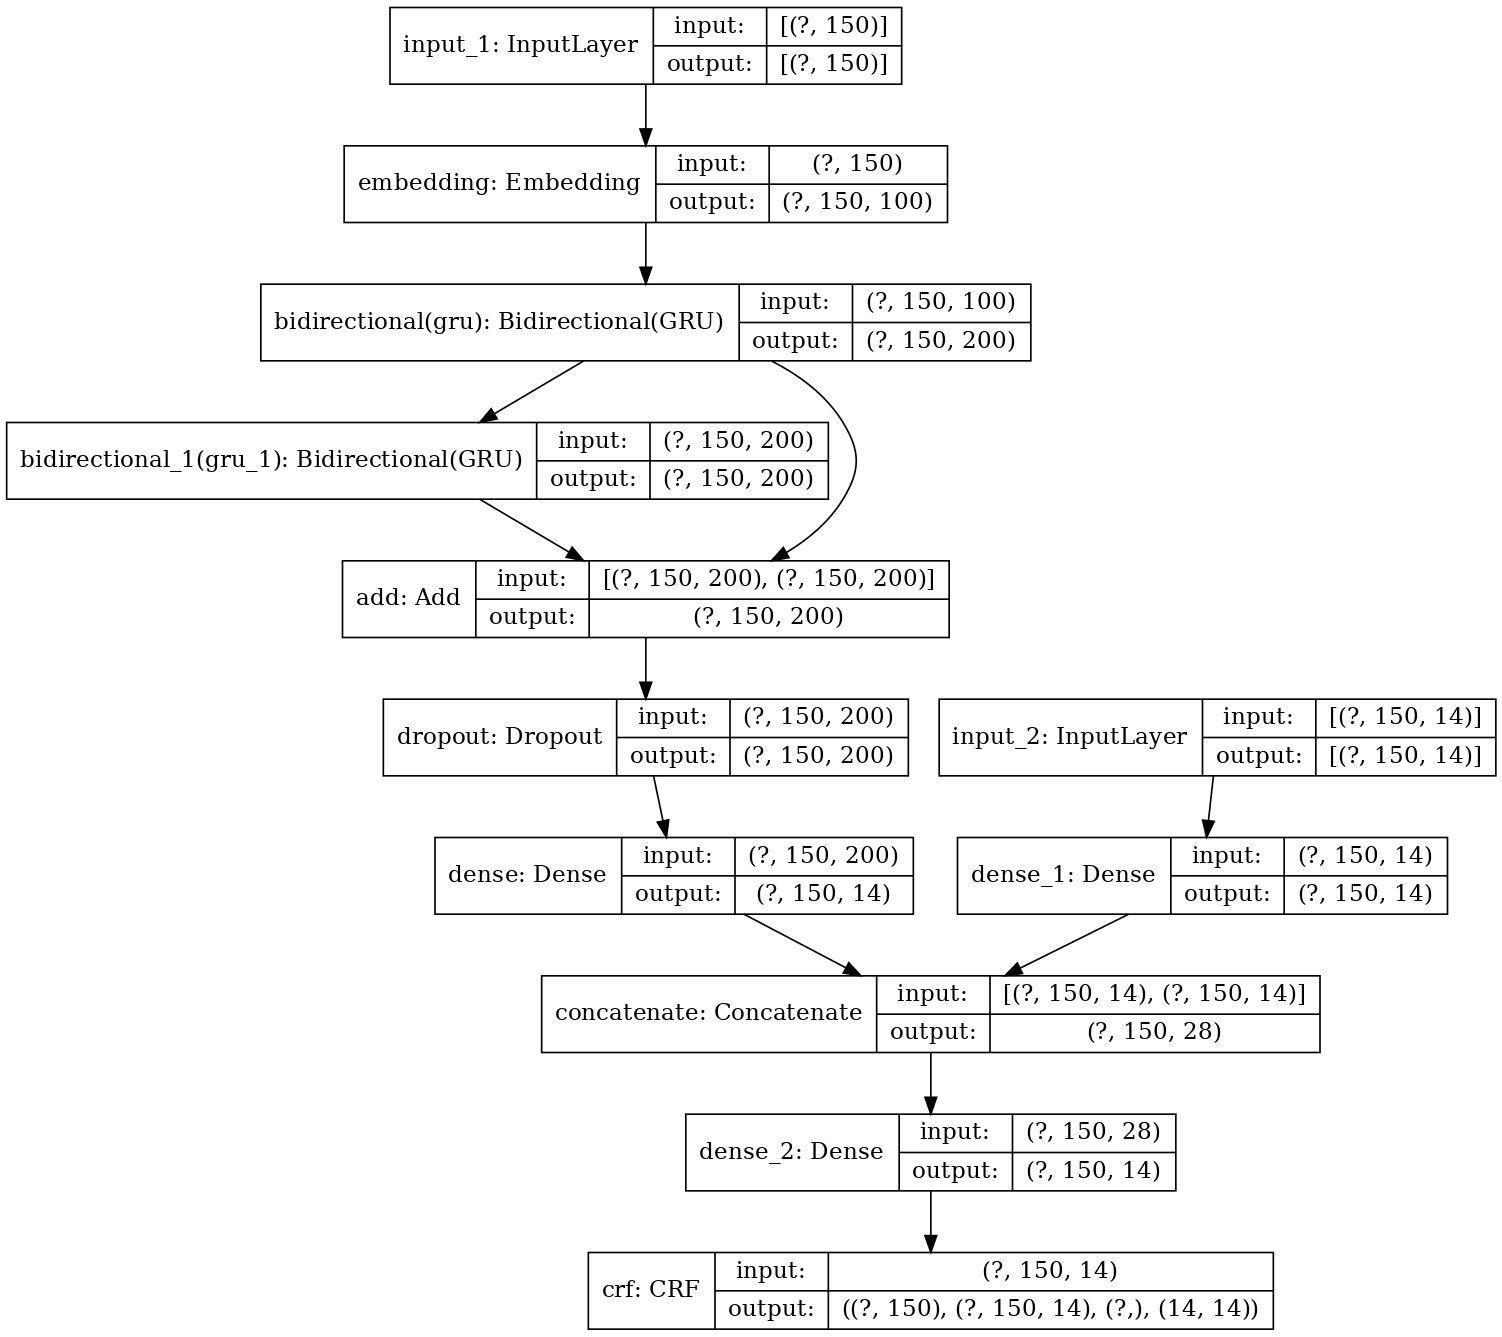
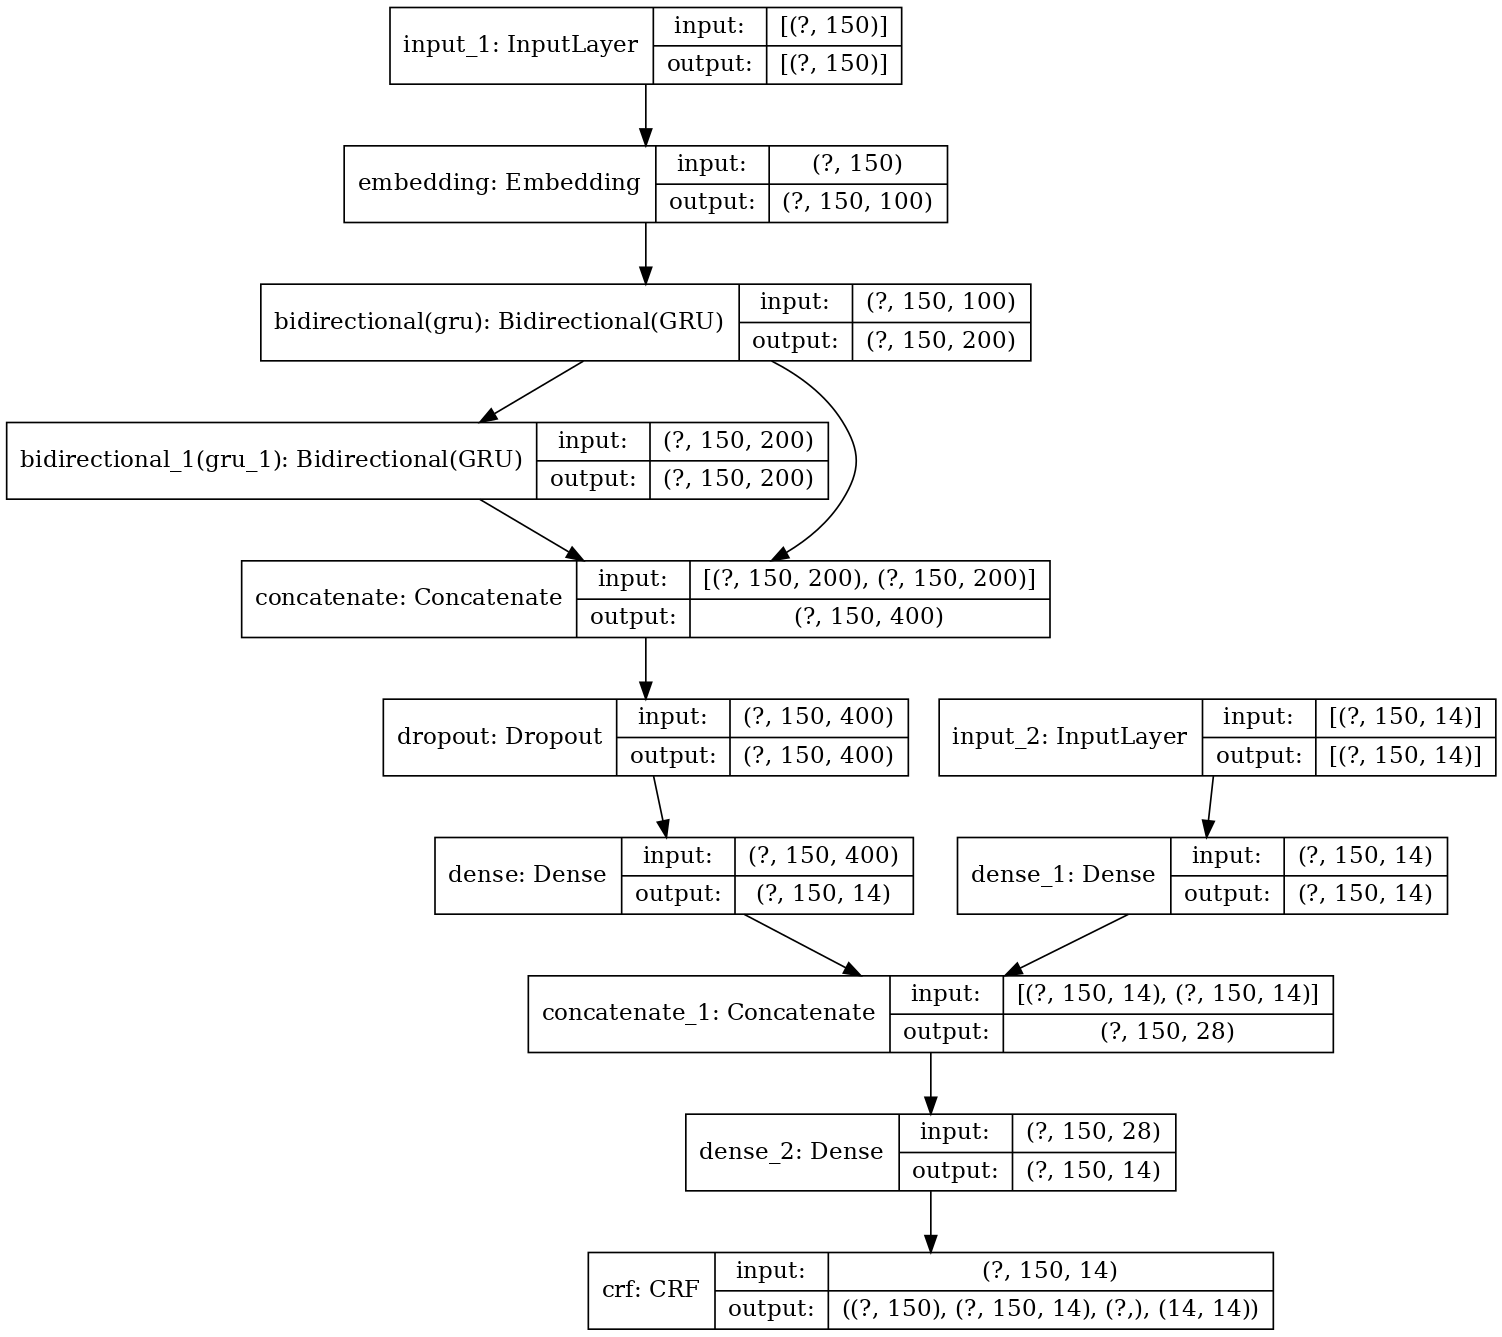
LuterGS : 모델 2 기존 베이스라인에서 Bidirectional을 3중으로 쌓음 + Residual Connection 구조로 변경 후, Okt로 품사 태깅한 것을 추가로 입력을 줘서 처리함.

Changed region(s): [[0.3369, 0.736, 0.8881, 0.7973], [0.1531, 0.4293, 0.7044, 0.4907]]

diff --git a/LuterGS/main.py b/LuterGS/main.py
@@ -7,18 +7,10 @@
 import os
 from tqdm import tqdm
 import numpy as np
-
-import tensorflow.keras.layers as layers
-import tensorflow.keras.optimizers as optimizers
-import tensorflow.keras.losses as losses
-import tensorflow.keras.metrics as metrics
-import tensorflow.keras.utils as utils
-from tensorflow.keras import Model
-from tf2crf import CRF, ModelWithCRFLoss
+import LuterGS.model as models
 from seqeval.metrics import classification_report
-
-
 from LuterGS.Preprocess import load_vocab, convert_data2feature, convert_data2tagfeature
+
 
 PATH = os.path.dirname(os.path.abspath(__file__)) + "/"
 MAX_LENGTH = 150
@@ -56,44 +48,26 @@ class Dataset:
 
 class Network:
 
-    def __init__(self):
-        self.model = self.init_model()
+    def __init__(self, model_selection):
+        self.model = self.init_model(model_selection)
 
-    def init_model(self):
-        feature_input = layers.Input(shape=(MAX_LENGTH, ), dtype='int32')
-        f_x = layers.Embedding(input_dim=2160, output_dim=EMBEDDING_DIM, input_shape=(MAX_LENGTH, ), trainable=True, mask_zero=True)(feature_input)
-        f_x = layers.Bidirectional(layers.GRU(100, return_sequences=True))(f_x)
+    def init_model(self, model_selection):
+        """
+        :param model_selection: 모델 선택 번호
+            1. biGRU + Resnet + Okt 모델
+        :return: 완성된 텐서플로우 모델
+        """
+        if model_selection == 1:
+            return models.biGRU_ResNet_Okt(MAX_LENGTH, EMBEDDING_DIM, TAG_NUM)
+        elif model_selection == 2:
+            return models.network2(MAX_LENGTH, EMBEDDING_DIM, TAG_NUM)
 
-        f2_x = layers.Bidirectional(layers.GRU(units=100, return_sequences=True))(f_x)
-
-        f_x = layers.Add()([f_x, f2_x])
-
-        f_x = layers.Dropout(0.2)(f_x)
-        f_x = layers.Dense(TAG_NUM, activation='relu')(f_x)
-
-        tag_input = layers.Input(shape=(MAX_LENGTH, TAG_NUM), dtype='float32')
-        t_x = layers.Dense(units=TAG_NUM, activation='relu')(tag_input)
-
-        x = layers.Concatenate()([f_x, t_x])
-        x = layers.Dense(units=14, activation='relu')(x)
-        # x = layers.Reshape(target_shape=(1, 150, TAG_NUM * 2))(x)
-        # x = layers.Conv2D(filters=64, kernel_size=4, strides=1, padding='SAME', activation='relu', kernel_initializer='he_normal')(x)
-        # x = layers.Reshape(target_shape=(150, TAG_NUM))(x)
-
-        crf = CRF(dtype='float32')
-        x = crf(x)
-
-
-        base_model = Model(inputs=[feature_input, tag_input], outputs=x)
-        utils.plot_model(base_model, "biGRU+ResNet+Okt.png", True, True, 'TB', True, 120)
-
-        model = ModelWithCRFLoss(base_model)
-        model.compile(optimizer=optimizers.Adam(lr=0.0003))
-        return model
-
-    def train(self, x1, x2, y, save_name, epochs=20, batch_size=32):
+    def train(self, x1, x2, y, save_name, epochs=30, batch_size=20):
         self.model.fit(x=[x1, x2], y=y, epochs=epochs, batch_size=batch_size, verbose=1)
         self.model.save(filepath=save_name)
+
+    def load(self, location):
+        self.model.load_weights(location + "/variables")
 
     def evaluate(self, x1, x2, y, idx2tag):
         model_predicted = self.model.predict([x1, x2])
@@ -107,14 +81,18 @@ class Network:
 
 if __name__ == "__main__":
 
-    neural_net = Network()
+    neural_net = Network(2)
 
 
     data = Dataset()
     train_x1, train_x2, train_y = data.get_network_data("../baseline/ner_train.txt")
     test_x1, test_x2, test_y = data.get_network_data("../baseline/ner_dev.txt")
 
-    neural_net.train(train_x1, train_x2, train_y, "model2", 20)
+    neural_net.train(train_x1, train_x2, train_y, "network2", 30, 20)
+    # model1은 biGRU_ResNet_Okt에서 두개의 BiGRU를 합칠때 Add 사용
+    # model2는 Concatenate 사용
+    # network2는 models.network2 사용
+
     neural_net.evaluate(test_x1, test_x2, test_y, data.idx2tag)
 
 

diff --git a/LuterGS/model.py b/LuterGS/model.py
@@ -1,0 +1,73 @@
+import tensorflow.keras.layers as layers
+import tensorflow.keras.utils as utils
+import tensorflow.keras.optimizers as optimizers
+from tensorflow.keras import Model
+from tf2crf import CRF, ModelWithCRFLoss
+
+def biGRU_ResNet_Okt(MAX_LENGTH, EMBEDDING_DIM, TAG_NUM):
+
+
+    feature_input = layers.Input(shape=(MAX_LENGTH, ), dtype='int32')
+    f_x = layers.Embedding(input_dim=2160, output_dim=EMBEDDING_DIM, input_shape=(MAX_LENGTH, ), trainable=True, mask_zero=True)(feature_input)
+    f_x = layers.Bidirectional(layers.GRU(100, return_sequences=True))(f_x)
+    f2_x = layers.Bidirectional(layers.GRU(units=100, return_sequences=True))(f_x)
+
+    f_x = layers.Concatenate()([f_x, f2_x])
+    f_x = layers.Dropout(0.2)(f_x)
+    f_x = layers.Dense(TAG_NUM, activation='relu')(f_x)
+
+    tag_input = layers.Input(shape=(MAX_LENGTH, TAG_NUM), dtype='float32')
+    t_x = layers.Dense(units=TAG_NUM, activation='relu')(tag_input)
+
+    x = layers.Concatenate()([f_x, t_x])
+    x = layers.Dense(units=14, activation='relu')(x)
+
+    crf = CRF(dtype='float32')
+    x = crf(x)
+
+    base_model = Model(inputs=[feature_input, tag_input], outputs=x)
+    utils.plot_model(base_model, "biGRU+ResNet+Okt.png", True, True, 'TB', True, 120)
+
+    model = ModelWithCRFLoss(base_model)
+    model.compile(optimizer=optimizers.Adam(learning_rate=0.0005))
+    return model
+
+    # f1-score : micro agv 0.68, macro avg 0.7, weighted avg 0.68
+    # Adam, lr 0.0005, epoch 30, batch size 20
+
+
+
+def network2(MAX_LENGTH, EMBEDDING_DIM, TAG_NUM):
+
+    feature_input = layers.Input(shape=(MAX_LENGTH, ), dtype='int32')
+    f_x = layers.Embedding(input_dim=2160, output_dim=EMBEDDING_DIM, input_shape=(MAX_LENGTH, ), trainable=True, mask_zero=True)(feature_input)
+    f_x = layers.Bidirectional(layers.GRU(units=100, return_sequences=True))(f_x)
+    f2_x = layers.Bidirectional(layers.GRU(units=100, return_sequences=True))(f_x)
+    f3_x = layers.Bidirectional(layers.GRU(units=100, return_sequences=True))(f2_x)
+
+    f_x = layers.Concatenate()([f_x, f2_x, f3_x])
+    f_x = layers.Dropout(0.2)(f_x)
+    f_x = layers.Dense(TAG_NUM, activation='relu')(f_x)
+
+    tag_input = layers.Input(shape=(MAX_LENGTH, TAG_NUM), dtype='float32')
+    t_x = layers.Dense(units=TAG_NUM, activation='relu')(tag_input)
+
+    x = layers.Concatenate()([f_x, t_x])
+    x = layers.Dense(units=14, activation='relu')(x)
+    x = layers.Dropout(0.2)(x)
+
+    crf = CRF(dtype='float32')
+    x = crf(x)
+
+    base_model = Model(inputs=[feature_input, tag_input], outputs=x)
+    base_model.summary()
+    utils.plot_model(base_model, "biGRU+3Resnet+Okt.png", True, True, 'TB', True, 120)
+
+    model = ModelWithCRFLoss(base_model)
+    model.compile(optimizer=optimizers.Adam(learning_rate=0.0005))
+    return model
+
+    # f1-score : micro agv ___, macro avg ___, weighted avg ___
+    # Adam, lr 0.0005, epoch 20, batch size 20
+
+
